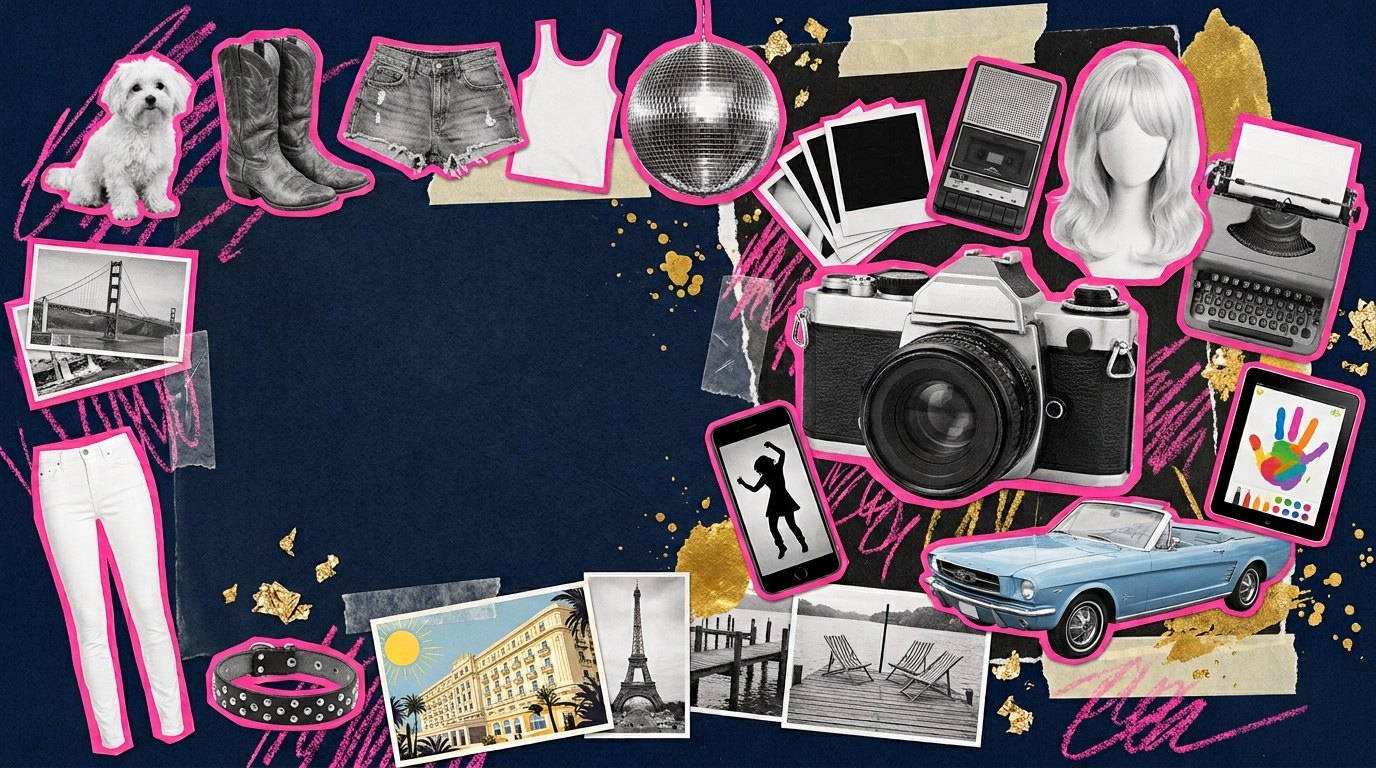
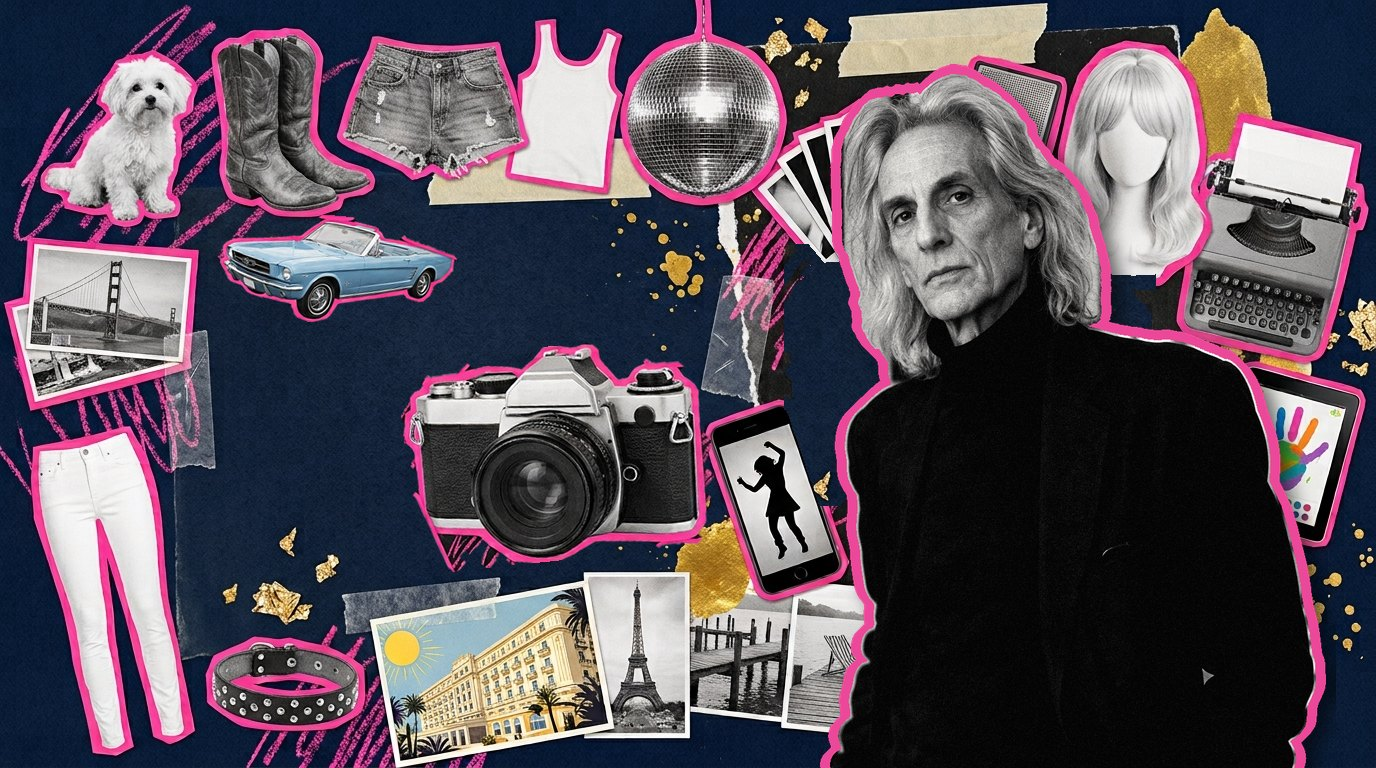
S05E06: Christopher Makos portrait in the header and episode card
Claude-Session: https://claude.ai/code/session_011MVAnQFHQ9Wv2cvGWey2uC

Changed region(s): [[0.5625, 0.0625, 0.9688, 1.0], [0.2812, 0.4375, 0.5312, 0.75], [0.1562, 0.2812, 0.3438, 0.4375]]

diff --git a/src/components/episode-block.tsx b/src/components/episode-block.tsx
@@ -8,6 +8,7 @@ import fieldPortrait from "@/assets/block-patricia-field.jpg";
 import bartschPortrait from "@/assets/block-susanne-bartsch.jpg";
 import edelsteinPortrait from "@/assets/block-lisa-edelstein.jpg";
 import richiePortrait from "@/assets/block-richie-rich.jpg";
+import makosPortrait from "@/assets/block-christopher-makos.jpg";
 
 const episodePortraits: Record<string, string> = {
   s01e01: diannePortrait,
@@ -16,6 +17,7 @@ const episodePortraits: Record<string, string> = {
   s02e03: bartschPortrait,
   s03e01: fieldPortrait,
   s04e08: richiePortrait,
+  s05e06: makosPortrait,
   s06e01: jamesPortrait,
 };
 
